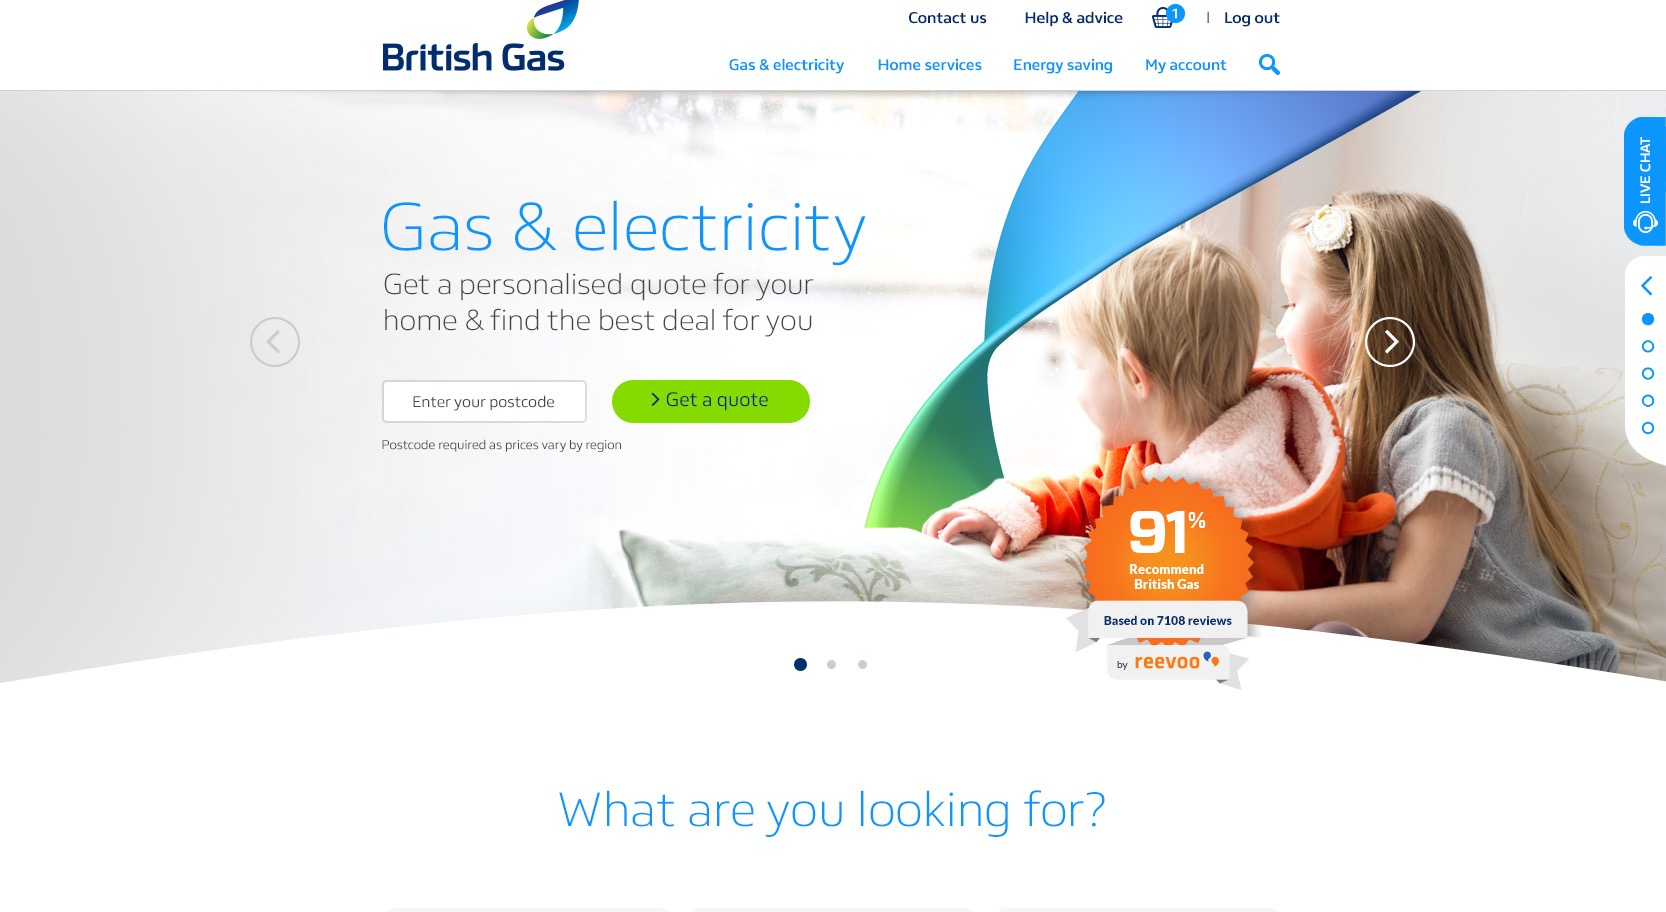
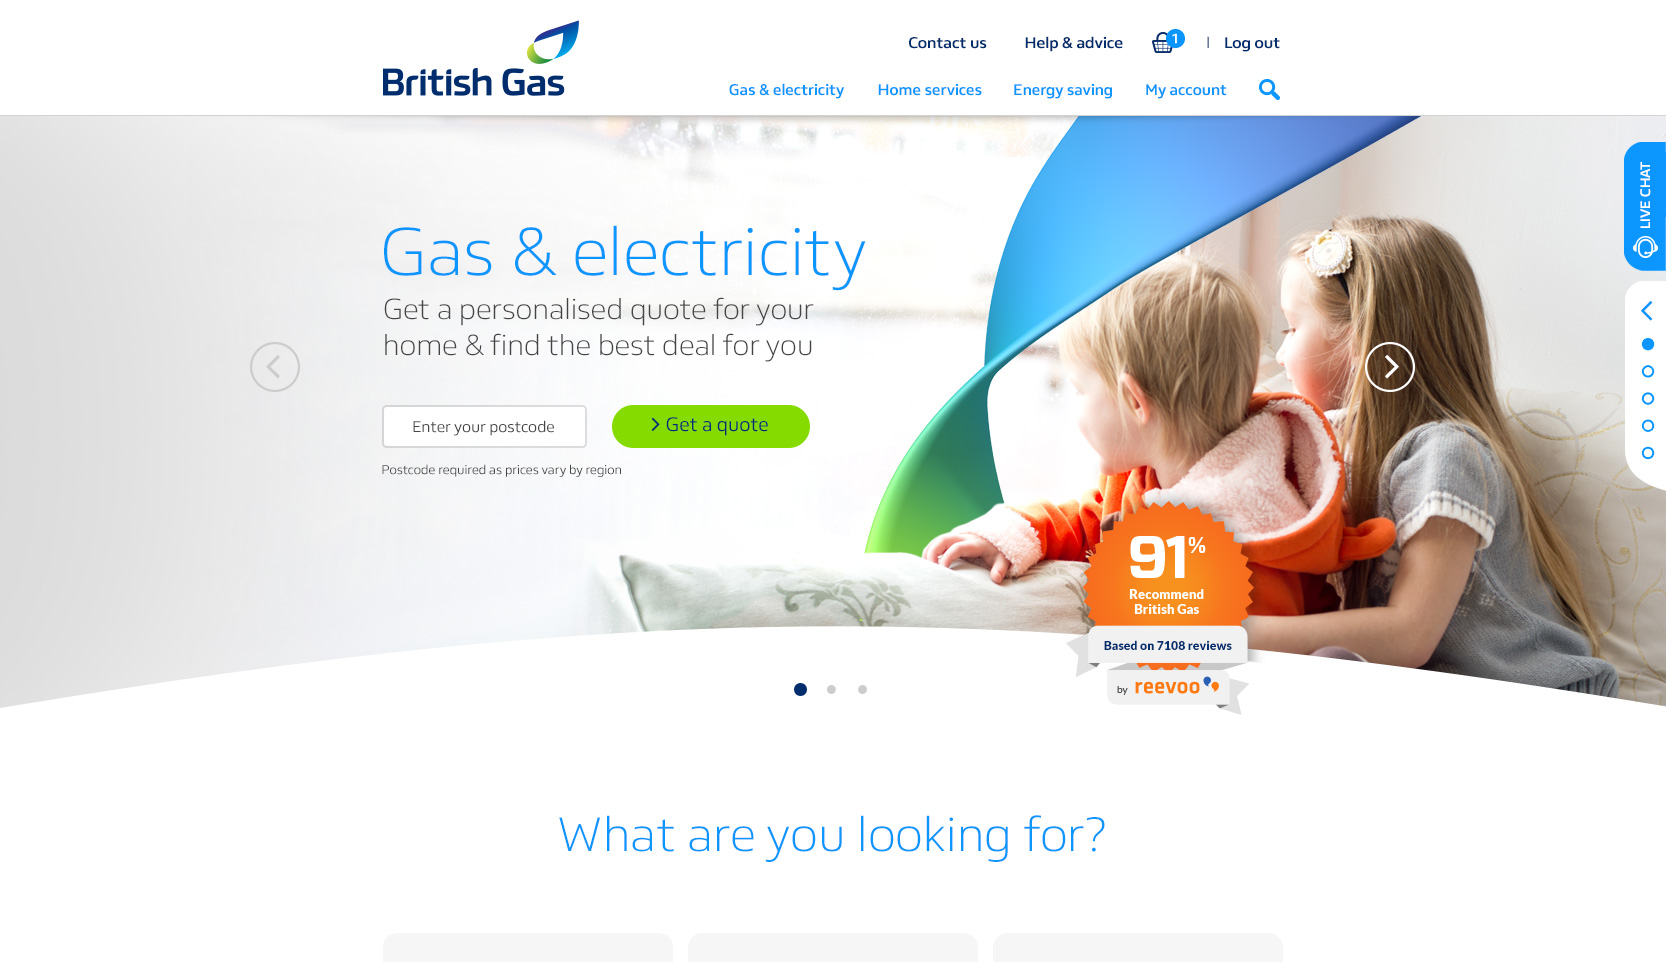
Restore homepage image and remove image captions

diff --git a/cs-design-system.html b/cs-design-system.html
@@ -228,7 +228,6 @@
 
       <div class="img-full reveal">
         <img src="assets/british-gas/homepage-960-clean.jpg" alt="britishgas.co.uk homepage at 960px medium breakpoint" />
-        <p class="img-caption">britishgas.co.uk · Medium breakpoint (960px) · Redesigned homepage</p>
       </div>
     </div>
 
@@ -448,7 +447,6 @@
 
       <div class="img-full reveal" style="margin-top: 16px; margin-bottom: 24px;">
         <img src="assets/british-gas/comp-accordion.png" alt="Accordion component — open and collapsed states" />
-        <p class="img-caption">Accordion · progressive disclosure pattern · open &amp; collapsed states · tested with users</p>
       </div>
 
       <div class="img-two reveal">
